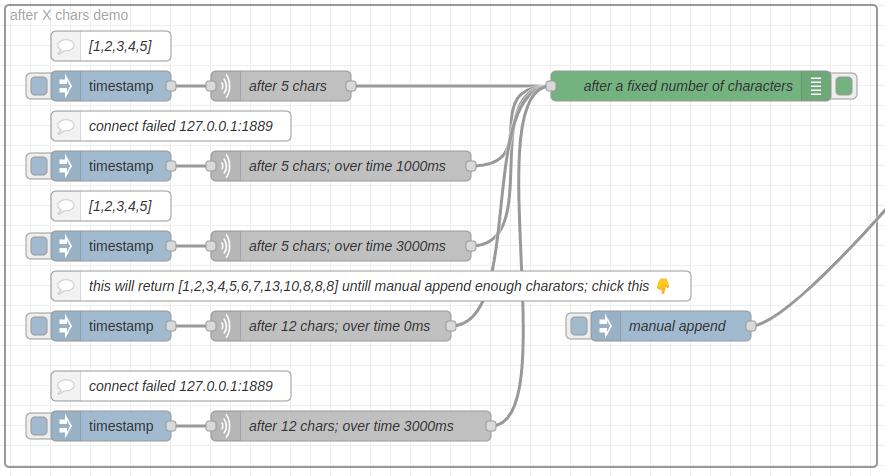
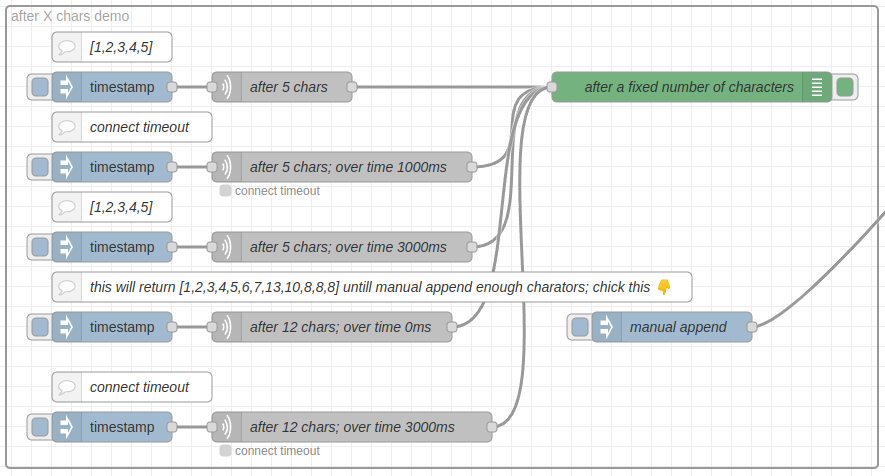
change error to node status

diff --git a/tcp-request2.js b/tcp-request2.js
@@ -183,7 +183,7 @@ module.exports = function (RED) {
                 if (node.overTime > 0) {
                     clients[connection_id].client.setTimeout(node.overTime);
                 }
-                
+
                 if (host && port) {
                     clients[connection_id].connecting = true;
                     clients[connection_id].client.connect(connOpts, function () {
@@ -328,7 +328,7 @@ module.exports = function (RED) {
                 });
 
                 clients[connection_id].client.on('end', function () {
-                    //console.log("END");
+                    // console.log("END");
                     node.status({ fill: "grey", shape: "ring", text: "node-red:common.status.disconnected" });
                     if (clients[connection_id] && clients[connection_id].client) {
                         clients[connection_id].connected = clients[connection_id].connecting = false;
@@ -357,7 +357,7 @@ module.exports = function (RED) {
                 });
 
                 clients[connection_id].client.on('error', function () {
-                    //console.log("ERROR");
+                    // console.log("ERROR");
                     node.status({ fill: "red", shape: "ring", text: "node-red:common.status.error" });
                     node.error(RED._("node-red:tcpin.errors.connect-fail") + " " + connection_id, msg);
                     if (clients[connection_id] && clients[connection_id].client) {
@@ -367,25 +367,30 @@ module.exports = function (RED) {
                 });
 
                 clients[connection_id].client.on('timeout', function () {
-                    //console.log("TIMEOUT");
+                    // console.log("TIMEOUT");
+                    // console.log(new Date());
                     if (clients[connection_id]) {
                         clients[connection_id].connected = clients[connection_id].connecting = false;
                         node.status({ fill: "grey", shape: "dot", text: "node-red:tcpin.errors.connect-timeout" });
                         //node.warn(RED._("node-red:tcpin.errors.connect-timeout"));
                         if (clients[connection_id].client) {
-                            clients[connection_id].connecting = true;
+                            // clients[connection_id].connecting = true;
 
-                            var connOpts = { host: host, port: port };
-                            if (node.tls) {
-                                let tlsNode = RED.nodes.getNode(node.tls);
-                                connOpts = tlsNode.addTLSOptions(connOpts);
-                            }
+                            // var connOpts = { host: host, port: port };
 
-                            clients[connection_id].client.connect(connOpts, function () {
-                                clients[connection_id].connected = true;
-                                clients[connection_id].connecting = false;
-                                node.status({ fill: "green", shape: "dot", text: "node-red:common.status.connected" });
-                            });
+                            // if (node.tls) {
+                            //     let tlsNode = RED.nodes.getNode(node.tls);
+                            //     connOpts = tlsNode.addTLSOptions(connOpts);
+                            // }
+
+                            // clients[connection_id].client.connect(connOpts, function () {
+                            //     clients[connection_id].connected = true;
+                            //     clients[connection_id].connecting = false;
+                            //     node.status({ fill: "green", shape: "dot", text: "node-red:common.status.connected" });
+                            // });
+
+                            clients[connection_id].client.destroy();
+                            delete clients[connection_id];
                         }
                     }
                 });
